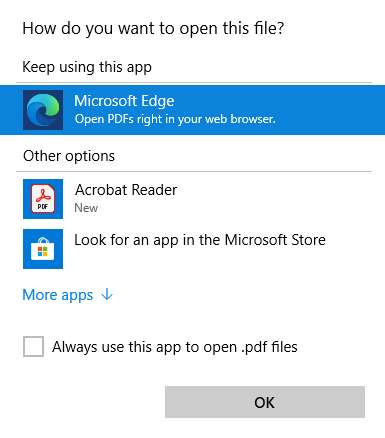
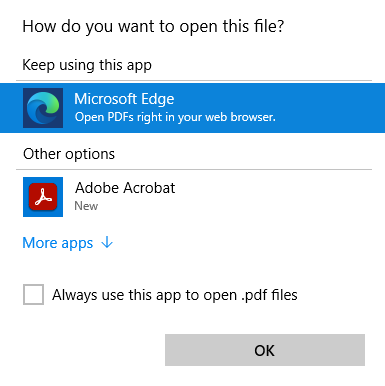
Signed-off-by: Dave Taggart <taggart@applab.net>

diff --git a/Scripts/adobe_acrobatpro/test.sikuli/test.py b/Scripts/adobe_acrobatpro/test.sikuli/test.py
@@ -58,9 +58,12 @@ wait(3)
 type(Key.F4, Key.ALT)
 run("explorer " + save_location)
 wait("default_dialog.png")
-click("default_acrobat_pro.png")
 click("default_always.png")
-click("default_ok.png")
+click("default_acrobat_pro.png")
+wait(3)
+type(Key.ENTER)
+if exists("get-started.png"):
+    type(Key.ESC)
 wait("point-2-point.png")
 type(Key.F4, Key.ALT)
 wait(3)
